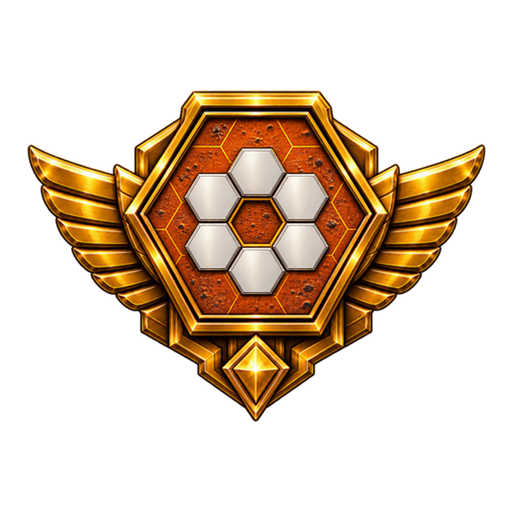
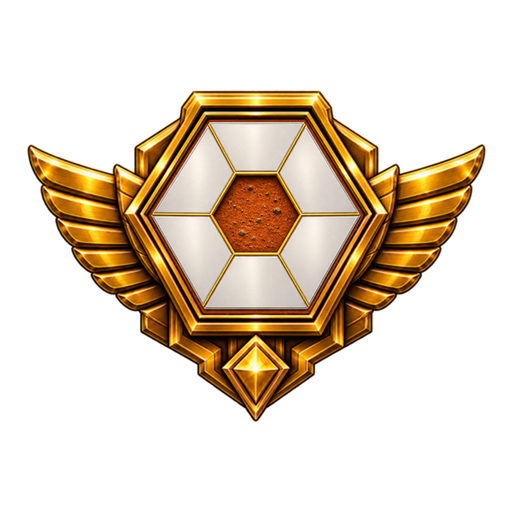
Suburbian award · the badge redrawn so the white ring IS the rim (the faint grid gone, six segments reaching the gold bezel, the empty rust centre larger) — it read as «tiles in the middle»; the fit entry measures the same

Changed region(s): [[0.2812, 0.2188, 0.7188, 0.625]]

diff --git a/docs/claude/ma-premium-icons-worklist.md b/docs/claude/ma-premium-icons-worklist.md
@@ -32,7 +32,7 @@
 | 12 | ✅ **Administrator** | модульная | Больше всех карт без меток в игре (события не считаются) | «✕»-метка на пьедестале | `a-manufacturer` (карта в рамке): лицо синее / зелёное по диагонали (любая не-событийная) + `tag-none` в золотой оправе по центру |
 | 13 | ✅ **Collector** | модульная | Больше всех РАЗНЫХ типов ресурсов: стандартные на складе (>0) + каждый тип ресурса на картах | разноцветная «?» на пьедестале | `venuphile` (медальон): розетка из четырёх РАЗНЫХ плиток — тепло · титан (планшет) + флоатер · наука (карты) |
 | 14 | ✅ **Constructor** | модульная, нужны Колонии | Больше всех колоний + городов вместе (ярусы небоскрёба считаются каждый) | колония + город, с крыльями | `highlander` (пара): слева ТРЕУГОЛЬНОЕ гнездо с плиткой колонии, справа шестиугольное с городом, сросшиеся — сгенерированный арт (заменил композит фазы 1) |
-| 15 | ✅ **Suburbian** | модульная | Больше всех своих плиток на краевых клетках поля (опасности не считаются) | шестиугольник с оранжевым краем и белым центром | `landscaper` (соты в медальоне): шесть белых плиток кольцом, центр пуст — родственник `edgedancer` (в одной партии не встречаются, группа `edge-tiles`) |
+| 15 | ✅ **Suburbian** | модульная | Больше всех своих плиток на краевых клетках поля (опасности не считаются) | шестиугольник с оранжевым краем и белым центром | `landscaper` (медальон): белое кольцо из шести сегментов во всю кромку, центр — пустая ржавая ячейка — родственник `edgedancer` (в одной партии не встречаются, группа `edge-tiles`) |
 
 ## Пришли с Amazonis Planitia (апстрим fc8bd8e0e1, 2026-11-06) (3)
 
